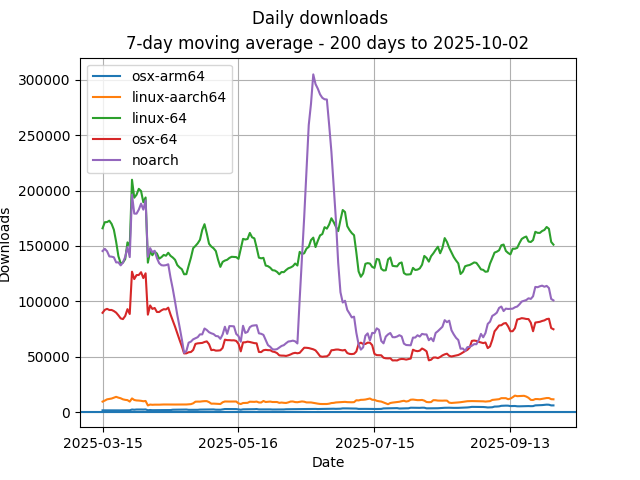
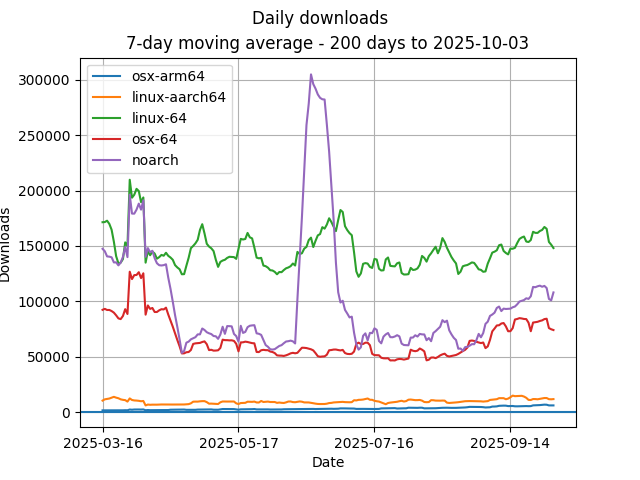
update front image

diff --git a/packages.md b/packages.md
@@ -2,42 +2,42 @@
 ## last 7 days
 |linux-64 | noarch | osx-64 | linux-aarch64 | osx-arm64 | 
 |-|-|-|-|-|
-|('pysam', 46769) |('dxpy', 14306) |('pysam', 37176) |('harpy', 21223) |('pysam', 6999) |
-|('samtools', 30809) |('picard', 10787) |('meme', 20417) |('pysam', 9156) |('last', 3118) |
-|('htslib', 23583) |('snakemake-minimal', 6598) |('last', 17746) |('last', 3709) |('diamond', 1630) |
-|('harpy', 21685) |('gatk4-spark', 6501) |('bbmap', 13494) |('htslib', 2038) |('htslib', 1538) |
-|('meme', 20898) |('metaphlan', 6348) |('bowtie2', 13418) |('ucsc-fatotwobit', 2028) |('samtools', 1507) |
-|('last', 18554) |('star-fusion', 5388) |('picard', 13086) |('hyphy', 1788) |('bwa', 984) |
-|('bowtie2', 16979) |('fastqc', 5280) |('samtools', 11984) |('samtools', 1767) |('fasttree', 942) |
-|('bbmap', 15507) |('snakemake', 5237) |('peptide-shaker', 11837) |('sepp', 1695) |('hyphy', 893) |
-|('blast', 14200) |('bioconductor-biocgenerics', 4742) |('diamond', 9802) |('diamond', 1561) |('fermi2', 888) |
+|('pysam', 46372) |('dxpy', 14353) |('pysam', 37218) |('harpy', 21197) |('pysam', 6948) |
+|('samtools', 29864) |('picard', 10851) |('meme', 20383) |('pysam', 9189) |('last', 3144) |
+|('htslib', 23234) |('gatk4-spark', 6559) |('last', 17812) |('last', 3742) |('diamond', 1627) |
+|('harpy', 21638) |('snakemake-minimal', 6447) |('bbmap', 13455) |('htslib', 2035) |('htslib', 1539) |
+|('meme', 20942) |('metaphlan', 6277) |('bowtie2', 13381) |('ucsc-fatotwobit', 2001) |('samtools', 1504) |
+|('last', 18717) |('snakemake', 5441) |('picard', 13085) |('hyphy', 1836) |('bwa', 989) |
+|('bowtie2', 16789) |('star-fusion', 5376) |('peptide-shaker', 11802) |('samtools', 1765) |('fasttree', 972) |
+|('bbmap', 15527) |('fastqc', 5245) |('samtools', 11778) |('sepp', 1691) |('fermi2', 888) |
+|('blast', 13824) |('bioconductor-biocgenerics', 4674) |('diamond', 9761) |('diamond', 1574) |('hyphy', 886) |
 # First 10 missing packages in linux-aarch64 by linux-x86_64 rank
 ## last 7 days
 
 | Package | Downloads |
 | - | - |
-| genenotebook | 5226 | 
-| genoboo | 4243 | 
-| mentalist | 1976 | 
-| lambda | 1127 | 
-| novoalign | 948 | 
-| rnftools | 920 | 
-| plink2 | 887 | 
-| pbtk | 691 | 
-| regenie | 675 | 
-| lima | 574 | 
+| genenotebook | 5217 | 
+| genoboo | 4244 | 
+| mentalist | 1962 | 
+| lambda | 1147 | 
+| novoalign | 935 | 
+| rnftools | 906 | 
+| pbtk | 784 | 
+| plink2 | 712 | 
+| lima | 668 | 
+| unifrac | 504 | 
 # First 10 missing packages in osx-arm64 by osx-64 rank
 ## last 7 days
 
 | Package | Downloads |
 | - | - |
-| genenotebook | 5744 | 
-| sepp | 5638 | 
-| genoboo | 4475 | 
-| rsem | 1633 | 
-| bioconductor-mspurity | 1151 | 
-| rnftools | 934 | 
-| lambda | 878 | 
-| bioconductor-diffbind | 737 | 
-| comet-ms | 699 | 
-| gecode | 666 | 
+| genenotebook | 5749 | 
+| sepp | 5527 | 
+| genoboo | 4481 | 
+| rsem | 1642 | 
+| bioconductor-mspurity | 1157 | 
+| rnftools | 923 | 
+| lambda | 867 | 
+| bioconductor-diffbind | 733 | 
+| comet-ms | 697 | 
+| gecode | 672 | 
